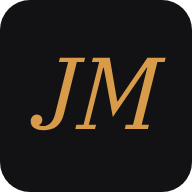
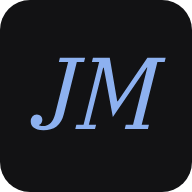
Zapracování připomínek majitelky: modrá barva, texty, bez exekucí a insolvencí, kontakt bez adresy
Zvýraznění je modré místo jantarové (včetně QR, ikon a světelných
přeletů). Opravené texty v hero, představení, službách, pásu, postupu,
profilu, kontaktu a platbě podle zadání. Řádky Exekuce a dražby
a Insolvenční řízení vypuštěny, štítek pro koho pracuji upraven.
Adresa kanceláře a mapa odstraněny z kontaktu, hero, menu i dat pro
vyhledávače; adresa zůstává jen ve fakturačních údajích.

Claude-Session: https://claude.ai/code/session_01RwUWZ7MfF7PU7oKZACwmRN

Changed region(s): [[0.375, 0.2812, 0.875, 0.6875], [0.1562, 0.2812, 0.4375, 0.6875]]

diff --git a/index.html b/index.html
@@ -4,7 +4,7 @@
 <meta charset="utf-8">
 <meta name="viewport" content="width=device-width, initial-scale=1, viewport-fit=cover">
 <title>Ing. Jana Machová – soudní znalec, odhady nemovitostí Ostrava</title>
-<meta name="description" content="Znalecké posudky a ocenění nemovitostí pro dědická řízení, převody, exekuce a insolvence. Soudní znalec v Ostravě od roku 2000, působnost celá ČR.">
+<meta name="description" content="Znalecké posudky a odborná vyjádření o cenách nemovitostí pro dědická řízení, převody, věcná břemena a vypořádání spoluvlastnictví. Soudní znalec v Ostravě od roku 2000, působnost celá ČR.">
 <link rel="canonical" href="https://janamachova.cz/">
 <meta name="color-scheme" content="light dark">
 <meta name="theme-color" id="themeColor" media="(prefers-color-scheme: light)" content="#ece8e1">
@@ -13,7 +13,7 @@
 <meta property="og:locale" content="cs_CZ">
 <meta property="og:site_name" content="Ing. Jana Machová – soudní znalec">
 <meta property="og:title" content="Ing. Jana Machová – soudní znalec, oceňování nemovitostí">
-<meta property="og:description" content="Znalecké posudky a ocenění nemovitostí pro soudy, státní orgány, právnické i fyzické osoby. Ostrava, působnost celá Česká republika.">
+<meta property="og:description" content="Znalecké posudky a odborná vyjádření o cenách nemovitostí pro soudy, státní orgány, právnické i fyzické osoby. Ostrava, působnost celá Česká republika.">
 <meta property="og:url" content="https://janamachova.cz/">
 <meta property="og:image" content="https://janamachova.cz/img/og-image.jpg">
 <meta property="og:image:width" content="1200">
@@ -33,7 +33,7 @@
   "@context": "https://schema.org",
   "@type": "ProfessionalService",
   "name": "Ing. Jana Machová – soudní znalec",
-  "description": "Znalecké posudky a ocenění nemovitostí pro soudy, státní orgány, právnické i fyzické osoby. Obor ekonomika, odvětví ceny a odhady nemovitostí.",
+  "description": "Znalecké posudky a odborná vyjádření o cenách nemovitostí pro soudy, státní orgány, právnické i fyzické osoby. Obor ekonomika, odvětví ceny a odhady nemovitostí.",
   "url": "https://janamachova.cz/",
   "telephone": "+420604163806",
   "taxID": "69615632",
@@ -41,8 +41,7 @@
   "image": "https://janamachova.cz/img/og-image.jpg",
   "address": {
     "@type": "PostalAddress",
-    "streetAddress": "Alšova 522/13",
-    "addressLocality": "Ostrava-Poruba",
+    "addressLocality": "Ostrava",
     "postalCode": "708 00",
     "addressCountry": "CZ"
   },
@@ -96,7 +95,7 @@
   <div class="menu__contact">
     <a href="tel:+420604163806">+420&nbsp;604&nbsp;163&nbsp;806</a>
     <a href="mailto:jana.machova@volny.cz">jana.machova@volny.cz</a>
-    <span>Alšova 522/13, Ostrava-Poruba</span>
+    <span>Ostrava · působnost celá ČR</span>
   </div>
 </div>
 
@@ -115,7 +114,7 @@
 
     <div class="hero__content">
       <p class="eyebrow" data-reveal>Soudní znalec · oceňování nemovitostí · Ostrava</p>
-      <h1 class="hero__title" data-reveal style="--d:1">Znalecké posudky a&nbsp;ocenění <em>nemovitostí</em></h1>
+      <h1 class="hero__title" data-reveal style="--d:1">Znalecké posudky a&nbsp;oceňování <em>nemovitostí</em></h1>
       <p class="hero__lead" data-reveal style="--d:2"><strong class="hero__name">Ing. Jana Machová</strong>, soudní znalec. Jmenována Krajským soudem v&nbsp;Ostravě v&nbsp;roce 2000 pro obor ekonomika, odvětví ceny a&nbsp;odhady nemovitostí.</p>
       <div class="hero__cta" data-reveal style="--d:3">
         <a class="btn btn--light" href="tel:+420604163806">Zavolat <span class="btn__num">+420&nbsp;604&nbsp;163&nbsp;806</span></a>
@@ -124,7 +123,7 @@
     </div>
 
     <div class="hero__foot" data-reveal style="--d:4">
-      <span>Alšova 522/13 · Ostrava-Poruba</span>
+      <span>Ostrava · schůzky podle domluvy</span>
       <span class="hero__foot-mid">Působnost celá Česká republika</span>
       <a class="hero__scroll" href="#uvod">Posunout dolů <span aria-hidden="true">↓</span></a>
     </div>
@@ -136,7 +135,7 @@
       <div class="intro__grid">
         <div class="intro__text">
           <h2 class="eyebrow" data-reveal>Představení</h2>
-          <p class="statement" data-reveal style="--d:1">Vyhotovuji znalecké posudky o&nbsp;ceně nemovitostí pro soudy, státní orgány, právnické i&nbsp;fyzické osoby. <span class="statement__muted">Sídlím v&nbsp;Ostravě, oceňuji na území celé České republiky.</span></p>
+          <p class="statement" data-reveal style="--d:1">Vyhotovuji znalecké posudky nebo odborná vyjádření o&nbsp;cenách nemovitostí pro soudy, státní orgány, právnické i&nbsp;fyzické osoby. <span class="statement__muted">Sídlím v&nbsp;Ostravě, oceňuji na území celé České republiky.</span></p>
         </div>
[1 lines of base64/hex data omitted]
           <img src="img/jana-machova-400.webp" width="400" height="510" alt="Ing. Jana Machová ve své kanceláři" loading="lazy" decoding="async" data-fade>
@@ -170,9 +169,9 @@
       <div class="section-head">
         <div>
           <p class="eyebrow" data-reveal>Služby</p>
-          <h2 class="h2" data-reveal style="--d:1">Kdy potřebujete znalecký <em>posudek</em></h2>
+          <h2 class="h2" data-reveal style="--d:1">Kdy potřebujete znalecký <em>posudek</em> nebo odborné vyjádření</h2>
         </div>
-        <p class="section-head__text" data-reveal style="--d:2">Znalecký posudek o&nbsp;ceně nemovité věci je podkladem pro notáře, soud, exekutora, insolvenčního správce či finanční úřad. Při zadání vám poradím, jaký typ ocenění vaše situace vyžaduje.</p>
+        <p class="section-head__text" data-reveal style="--d:2">Znalecký posudek nebo odborné vyjádření o&nbsp;ceně nemovité věci je podkladem pro notáře, soud či finanční úřad. Při zadání vám poradím, jaký typ ocenění vaše situace vyžaduje.</p>
       </div>
 
       <div class="svc-list">
@@ -187,38 +186,22 @@
         <details class="svc" name="sluzby" data-reveal style="--d:1">
           <summary>
             <span class="svc__index">02</span>
-            <span class="svc__title">Převody nemovitostí</span>
+            <span class="svc__title">Převody nemovitostí, zřizování věcných břemen (služebností)</span>
             <span class="svc__icon" aria-hidden="true"></span>
           </summary>
-          <div class="svc__body"><p>Prodej, darování nebo směna domu, bytu či pozemku. Posudek slouží jako podklad pro stanovení kupní ceny, pro finanční úřad nebo banku.</p></div>
+          <div class="svc__body"><p>Prodej, darování, směna domu, bytu či pozemku nebo zřízení služebnosti (vedení inženýrských sítí, cesty, užívání apod.). Posudek slouží jako podklad pro stanovení kupní ceny, vypořádání mezi účastníky, pro finanční úřad apod.</p></div>
         </details>
         <details class="svc" name="sluzby" data-reveal style="--d:2">
           <summary>
             <span class="svc__index">03</span>
-            <span class="svc__title">Exekuce a&nbsp;dražby</span>
-            <span class="svc__icon" aria-hidden="true"></span>
-          </summary>
-          <div class="svc__body"><p>Ocenění nemovitostí pro exekuční řízení a&nbsp;veřejné dražby podle požadavků soudního exekutora nebo dražebníka.</p></div>
-        </details>
-        <details class="svc" name="sluzby" data-reveal style="--d:3">
-          <summary>
-            <span class="svc__index">04</span>
-            <span class="svc__title">Insolvenční řízení</span>
-            <span class="svc__icon" aria-hidden="true"></span>
-          </summary>
-          <div class="svc__body"><p>Posudky pro insolvenční správce a&nbsp;soudy při zpeněžování majetkové podstaty dlužníka.</p></div>
-        </details>
-        <details class="svc" name="sluzby" data-reveal style="--d:4">
-          <summary>
-            <span class="svc__index">05</span>
             <span class="svc__title">Vypořádání spoluvlastnictví a&nbsp;SJM</span>
             <span class="svc__icon" aria-hidden="true"></span>
           </summary>
           <div class="svc__body"><p>Stanovení hodnoty pro vypořádání podílového spoluvlastnictví nebo společného jmění manželů, dohodou i&nbsp;před soudem.</p></div>
         </details>
-        <details class="svc" name="sluzby" data-reveal style="--d:5">
+        <details class="svc" name="sluzby" data-reveal style="--d:3">
           <summary>
-            <span class="svc__index">06</span>
+            <span class="svc__index">04</span>
             <span class="svc__title">Daňové účely a&nbsp;vyvlastnění</span>
             <span class="svc__icon" aria-hidden="true"></span>
           </summary>
@@ -243,7 +226,6 @@
         <ul class="audience__list">
           <li>soudy a&nbsp;státní orgány</li>
           <li>notáři jako soudní komisaři</li>
-          <li>exekutoři a&nbsp;insolvenční správci</li>
           <li>právnické osoby</li>
           <li>fyzické osoby a&nbsp;občané</li>
         </ul>
@@ -258,7 +240,7 @@
       <figcaption class="band__caption">Dolní Vítkovice, Ostrava</figcaption>
     </figure>
     <blockquote class="band__quote" data-reveal>
-      <p>Oceňuji podle platného oceňovacího předpisu i&nbsp;tržním způsobem. Záleží na tom, co od posudku potřebujete vy, soud nebo úřad.</p>
+      <p>Oceňuji podle oceňovacích předpisů i&nbsp;tržním způsobem. Záleží na tom, k&nbsp;jakému účelu potřebujete posudek použít.</p>
     </blockquote>
   </section>
 
@@ -287,12 +269,12 @@
         <li class="step" data-reveal style="--s:2">
           <span class="step__index">03</span>
           <h3 class="step__title">Místní šetření</h3>
-          <p>Prohlídka nemovitosti, zaměření, fotodokumentace a&nbsp;ověření skutečného stavu proti dokumentaci.</p>
+          <p>Prohlídka nemovitosti, zaměření, fotodokumentace a&nbsp;ověření skutečného stavu.</p>
         </li>
         <li class="step" data-reveal style="--s:3">
           <span class="step__index">04</span>
           <h3 class="step__title">Posudek</h3>
-          <p>Vyhotovení posudku s&nbsp;číslem a&nbsp;znaleckou doložkou, předání v&nbsp;tištěné i&nbsp;elektronické podobě.</p>
+          <p>Vyhotovení posudku se znaleckou doložkou, předání v&nbsp;tištěné nebo elektronické podobě, s&nbsp;možností použití elektronické znalecké pečeti.</p>
         </li>
       </ol>
 
@@ -326,7 +308,7 @@
         <p class="eyebrow" data-reveal>Profil</p>
         <h2 class="h2" data-reveal style="--d:1">Vzdělání a&nbsp;znalecká <em>praxe</em></h2>
         <div class="prose" data-reveal style="--d:2">
-          <p>Jsem soudním znalcem pro obor ekonomika, odvětví ceny a&nbsp;odhady nemovitostí. Znaleckou činnost vykonávám nepřetržitě od roku 2000, oceňování nemovitostí se věnuji na území celé České republiky.</p>
+          <p>Jsem soudním znalcem pro obor ekonomika, odvětví ceny a&nbsp;odhady nemovitostí. Znaleckou činnost vykonávám nepřetržitě od roku 2000. Oceňování nemovitostí se věnuji na území celé České republiky, prioritně v&nbsp;Moravskoslezském kraji.</p>
           <p>Vystudovala jsem Fakultu stavební Vysokého učení technického v&nbsp;Brně a&nbsp;následně postgraduální studium na Ústavu soudního inženýrství VUT v&nbsp;Brně, zaměřené na oceňování nemovitostí.</p>
           <p>Jsem členkou Komory soudních znalců České republiky, sekce stavebnictví – severní Morava. Posudky zpracovávám v&nbsp;souladu se zákonem č.&nbsp;254/2019 Sb., o&nbsp;znalcích, znaleckých kancelářích a&nbsp;znaleckých ústavech, a&nbsp;s&nbsp;platnými oceňovacími předpisy.</p>
         </div>
@@ -365,7 +347,7 @@
           <p class="eyebrow" data-reveal>Kontakt</p>
           <h2 class="h2" data-reveal style="--d:1">Domluvme se na <em>ocenění</em></h2>
         </div>
-        <p class="section-head__text" data-reveal style="--d:2">Nejrychlejší je telefon. Podklady a&nbsp;dotazy posílejte <span class="nw">e-mailem</span>, na schůzce v&nbsp;kanceláři projdeme vše potřebné.</p>
+        <p class="section-head__text" data-reveal style="--d:2">Nejrychlejší je telefon. Podklady a&nbsp;dotazy posílejte <span class="nw">e-mailem</span>, na schůzce projdeme vše potřebné.</p>
       </div>
 
       <div class="contact__grid">
@@ -380,26 +362,19 @@
           <button class="copy" type="button" data-copy="jana.machova@volny.cz" aria-live="polite" hidden>Kopírovat adresu</button>
         </div>
         <div class="contact__item" data-reveal style="--d:2">
-          <span class="contact__label">Kancelář</span>
-          <address class="contact__value contact__value--sm">Alšova 522/13<br>708&nbsp;00 Ostrava-Poruba</address>
-          <span class="contact__links"><a class="contact__map" href="https://www.google.com/maps/search/?api=1&amp;query=Al%C5%A1ova%20522%2F13%2C%20708%2000%20Ostrava-Poruba" target="_blank" rel="noopener">Google Maps <svg class="arrow" viewBox="0 0 10 10" width="10" height="10" aria-hidden="true" focusable="false" fill="none" stroke="currentColor" stroke-width="1.4" stroke-linecap="round" stroke-linejoin="round"><path d="M2 8 8 2M3 2h5v5"/></svg></a><a class="contact__map" href="https://mapy.cz/zakladni?q=Al%C5%A1ova%20522%2F13%2C%20Ostrava-Poruba" target="_blank" rel="noopener">Mapy.cz <svg class="arrow" viewBox="0 0 10 10" width="10" height="10" aria-hidden="true" focusable="false" fill="none" stroke="currentColor" stroke-width="1.4" stroke-linecap="round" stroke-linejoin="round"><path d="M2 8 8 2M3 2h5v5"/></svg></a></span>
+          <span class="contact__label">Působnost</span>
+          <span class="contact__value contact__value--sm">Ostrava a&nbsp;celá Česká republika</span>
+          <span class="contact__note">Schůzky podle domluvy, podklady lze řešit <span class="nw">e-mailem</span>.</span>
         </div>
       </div>
 
-      <figure class="contact__embed" data-reveal>
-        <iframe src="https://www.google.com/maps?q=Al%C5%A1ova%20522%2F13%2C%20708%2000%20Ostrava-Poruba&amp;z=16&amp;hl=cs&amp;output=embed" title="Mapa: Alšova 522/13, Ostrava-Poruba" loading="lazy" allowfullscreen referrerpolicy="no-referrer-when-downgrade"></iframe>
-        <figcaption class="contact__embed-caption">
-          <span>Alšova 522/13, 708&nbsp;00 Ostrava-Poruba</span>
-          <a href="https://www.google.com/maps/dir/?api=1&amp;destination=Al%C5%A1ova%20522%2F13%2C%20708%2000%20Ostrava-Poruba" target="_blank" rel="noopener">Navigovat <svg class="arrow" viewBox="0 0 10 10" width="10" height="10" aria-hidden="true" focusable="false" fill="none" stroke="currentColor" stroke-width="1.4" stroke-linecap="round" stroke-linejoin="round"><path d="M2 8 8 2M3 2h5v5"/></svg></a>
-        </figcaption>
-      </figure>
 
       <div class="pay" id="platba">
         <div class="pay__card" data-reveal>
           <div>
             <p class="eyebrow">Platba</p>
             <h3 class="pay__title">QR platba za posudek</h3>
-            <p class="pay__text">Naskenujte kód v&nbsp;bankovní aplikaci. Číslo účtu se vyplní samo, částku a&nbsp;variabilní symbol doplňte podle faktury.</p>
+            <p class="pay__text">Naskenujte kód v&nbsp;bankovní aplikaci. Číslo účtu se vyplní samo, částku a&nbsp;variabilní symbol doplníte podle vystavené faktury.</p>
             <dl class="pay__account">
               <dt>Číslo účtu</dt>
               <dd class="pay__acc">27-2489420287/0100</dd>

diff --git a/css/style.css b/css/style.css
@@ -15,8 +15,9 @@
   --fg: #141416;
   --muted: #605b53;
   --line: rgba(20, 20, 22, .16);
-  --accent: #d89b4a;         /* amber from the Ostrava sunsets */
-  --accent-text: #7a4c15;    /* readable amber on light ground (>= 5:1 on both stones) */
+  --accent: #2f63c7;         /* blue, per the owner's wish */
+  --accent-text: #1a4a94;    /* readable blue on light ground (>= 5:1 on both stones) */
+  --accent-ink: #ffffff;     /* text on an accent background */
   --card: #f6f4ef;
   --header-bg: rgba(236, 232, 225, .86);
 
@@ -45,7 +46,9 @@
     --fg: #f1eee8;
     --muted: #a7a197;
     --line: rgba(241, 238, 232, .16);
-    --accent-text: #d89b4a;
+    --accent: #8db1f0;
+    --accent-text: #8db1f0;
+    --accent-ink: #121214;
     --card: #0e0e10;
     --header-bg: rgba(18, 18, 20, .84);
     color-scheme: dark;
@@ -57,7 +60,9 @@
   --fg: #f1eee8;
   --muted: #a7a197;
   --line: rgba(241, 238, 232, .16);
-  --accent-text: #d89b4a;
+  --accent: #8db1f0;
+  --accent-text: #8db1f0;
+  --accent-ink: #121214;
   --card: #0e0e10;
   --header-bg: rgba(18, 18, 20, .84);
   color-scheme: dark;
@@ -71,7 +76,9 @@
   --fg: var(--photo-fg);
   --muted: #a7a197;
   --line: rgba(241, 238, 232, .18);
-  --accent-text: var(--accent);
+  --accent: #8db1f0;
+  --accent-text: #8db1f0;
+  --accent-ink: #121214;
   color-scheme: dark;
 }
 
@@ -174,7 +181,7 @@ section, footer {
 /* ---------- skip link ---------- */
 .skip {
   position: fixed; top: 8px; left: 8px; z-index: 200;
-  padding: 10px 14px; background: var(--accent); color: #121214;
+  padding: 10px 14px; background: var(--accent); color: var(--accent-ink);
   font-weight: 600; border-radius: 4px;
   transform: translateY(-200%);
 }
@@ -235,7 +242,8 @@ section, footer {
 }
 .brand { display: flex; flex-direction: column; line-height: 1.1; min-width: 0; padding-block: 4px; }
 .brand__name { font-weight: 600; letter-spacing: -.01em; white-space: nowrap; }
-.brand__role { font-family: var(--font-mono); font-size: .66rem; letter-spacing: .14em; text-transform: uppercase; color: var(--accent); margin-top: 3px; }
+.brand__role { font-family: var(--font-mono); font-size: .66rem; letter-spacing: .14em; text-transform: uppercase; color: #8db1f0; margin-top: 3px; }
+.header.is-scrolled .brand__role, .menu-open .header .brand__role { color: var(--accent-text); }
 .header.is-scrolled .brand__role, .menu-open .brand__role { color: inherit; }
 .nav { display: flex; gap: clamp(18px, 2.4vw, 36px); margin-left: auto; }
 .nav a {
@@ -255,7 +263,7 @@ section, footer {
   transition: background-color .3s var(--ease), color .3s var(--ease), border-color .3s var(--ease);
 }
 .header__cta { border-color: color-mix(in srgb, currentColor 40%, transparent); }
-.header__cta:hover { background: var(--accent); color: #121214; border-color: var(--accent); }
+.header__cta:hover { background: var(--accent); color: var(--accent-ink); border-color: var(--accent); }
 .theme-toggle {
   width: 40px; height: 40px; border-radius: 999px; flex: none;
   display: grid; place-items: center;
@@ -263,7 +271,7 @@ section, footer {
   transition: background-color .3s var(--ease), color .3s var(--ease);
 }
 .theme-toggle { border-color: color-mix(in srgb, currentColor 40%, transparent); }
-.theme-toggle:hover { background: var(--accent); color: #121214; }
+.theme-toggle:hover { background: var(--accent); color: var(--accent-ink); }
 .theme-toggle .icon-sun { display: none; }
 @media (prefers-color-scheme: dark) {
   :root:not([data-theme="light"]) .theme-toggle .icon-sun { display: block; }
@@ -330,7 +338,7 @@ html:not(.js) .nav { display: flex; flex-wrap: wrap; gap: 4px 18px; }
 }
 .btn:hover { transform: translateY(-1px); }
 .btn--light { background: #f1eee8; color: #121214; border-color: #f1eee8; }
-.btn--light:hover { background: var(--accent); border-color: var(--accent); }
+.btn--light:hover { background: var(--accent); border-color: var(--accent); color: var(--accent-ink); }
 .btn--ghost { color: #f1eee8; border-color: rgba(241, 238, 232, .4); }
 .btn--ghost:hover { border-color: #f1eee8; }
 .btn__num { font-family: var(--font-mono); font-size: .86rem; letter-spacing: .02em; }
@@ -686,17 +694,17 @@ a.contact__value:hover { color: var(--accent-text); }
 .pay__copy .copy { margin-top: 0; }
 .pay__qr {
   /* light mode: ink modules on stone. dark mode: inverted (stone modules on near-black) */
-  --qr-tile: #ece8e1; --qr-dark: #121214; --qr-finder: #8f5a1c; --qr-line: rgba(20, 20, 22, .14);
+  --qr-tile: #ece8e1; --qr-dark: #121214; --qr-finder: #1a4a94; --qr-line: rgba(20, 20, 22, .14);
   position: relative; background: var(--qr-tile); padding: 20px 20px 26px; border-radius: 3px;
   width: clamp(176px, 20vw, 240px); height: auto; justify-self: end;
   box-shadow: inset 0 0 0 1px var(--qr-line);
 }
 @media (prefers-color-scheme: dark) {
-  :root:not([data-theme="light"]) .pay__qr { --qr-tile: #0e0e10; --qr-dark: #ece8e1; --qr-finder: #d89b4a; --qr-line: rgba(241, 238, 232, .14); }
+  :root:not([data-theme="light"]) .pay__qr { --qr-tile: #0e0e10; --qr-dark: #ece8e1; --qr-finder: #8db1f0; --qr-line: rgba(241, 238, 232, .14); }
 }
-:root[data-theme="dark"] .pay__qr { --qr-tile: #0e0e10; --qr-dark: #ece8e1; --qr-finder: #d89b4a; --qr-line: rgba(241, 238, 232, .14); }
+:root[data-theme="dark"] .pay__qr { --qr-tile: #0e0e10; --qr-dark: #ece8e1; --qr-finder: #8db1f0; --qr-line: rgba(241, 238, 232, .14); }
 /* hover or a click switches the tile to the light version, which every scanner reads */
-:root .pay__qr:hover, :root .pay__qr.is-light { --qr-tile: #ece8e1; --qr-dark: #121214; --qr-finder: #8f5a1c; --qr-line: rgba(20, 20, 22, .14); }
+:root .pay__qr:hover, :root .pay__qr.is-light { --qr-tile: #ece8e1; --qr-dark: #121214; --qr-finder: #1a4a94; --qr-line: rgba(20, 20, 22, .14); }
 .pay__qr { transition: background-color .35s var(--ease); }
 .pay__qr path { transition: stroke .35s var(--ease); }
 /* the hint and the click only matter in dark mode, where the code is inverted */
@@ -755,7 +763,7 @@ a.contact__value:hover { color: var(--accent-text); }
 /* ---------- light sweeps: a soft beam crosses the photos every ~14 s ---------- */
 .hero__media::before, .band__media::before, .profile__media::before, .intro__portrait::before, .pay__qr .sweep {
   content: ""; position: absolute; inset: -20% -40%; z-index: 1; pointer-events: none;
-  background: linear-gradient(115deg, transparent 42%, rgba(255, 240, 215, .10) 49%, rgba(255, 240, 215, .16) 50%, rgba(255, 240, 215, .10) 51%, transparent 58%);
+  background: linear-gradient(115deg, transparent 42%, rgba(225, 235, 255, .10) 49%, rgba(225, 235, 255, .16) 50%, rgba(225, 235, 255, .10) 51%, transparent 58%);
   transform: translateX(-70%);
   animation: sweep 14s linear infinite;
 }

diff --git a/README.md b/README.md
@@ -61,8 +61,8 @@ a otevřít http://localhost:8080/.
 Převzato z původního webu: úvod, představení, profil a kontakt. Články z tisku byly na přání majitelky vynechány,
 stejně jako zmínka o budově katastrálního úřadu.
 
-V sekci Kontakt je vložená mapa Google (iframe bez API klíče). Načítá se z google.com, tedy s cookies Googlu –
-pokud by to vadilo, stačí iframe nahradit odkazem, který je pod mapou.
+Na přání majitelky není v kontaktu adresa kanceláře ani mapa (schůzky probíhají podle domluvy); adresa je jen
+ve fakturačních údajích u QR platby. Služby Exekuce a dražby a Insolvenční řízení byly vypuštěny.
 Nový obsah, který je dobré zkontrolovat s majitelkou: **Postup** a **Obvyklé podklady** (obecný popis),
 položka časové osy **2021 – zápis podle nového znaleckého zákona**, jednověté vysvětlivky u šesti řádků v sekci
 **Služby** (rozbalovací řádky) a citát v pásu s fotkou Dolních Vítkovic (oceňovací předpis vs. tržní způsob).
